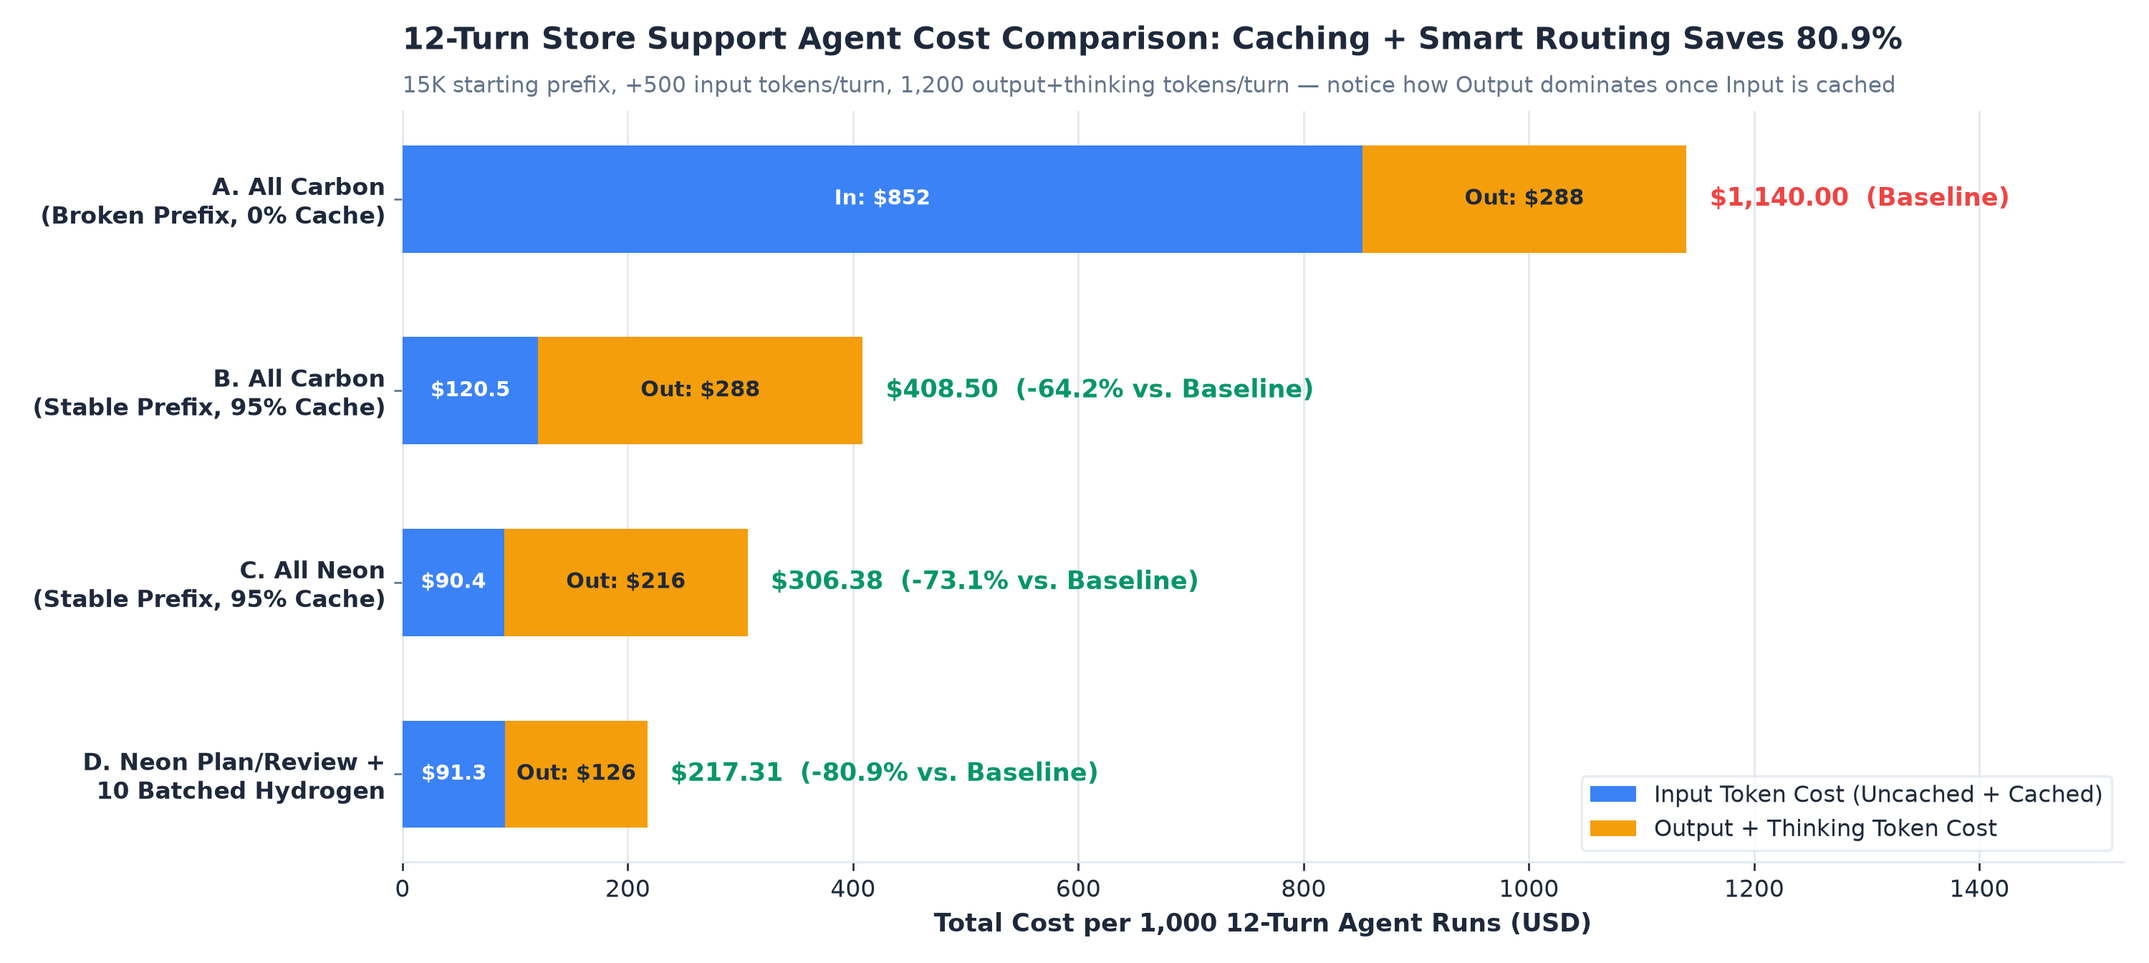
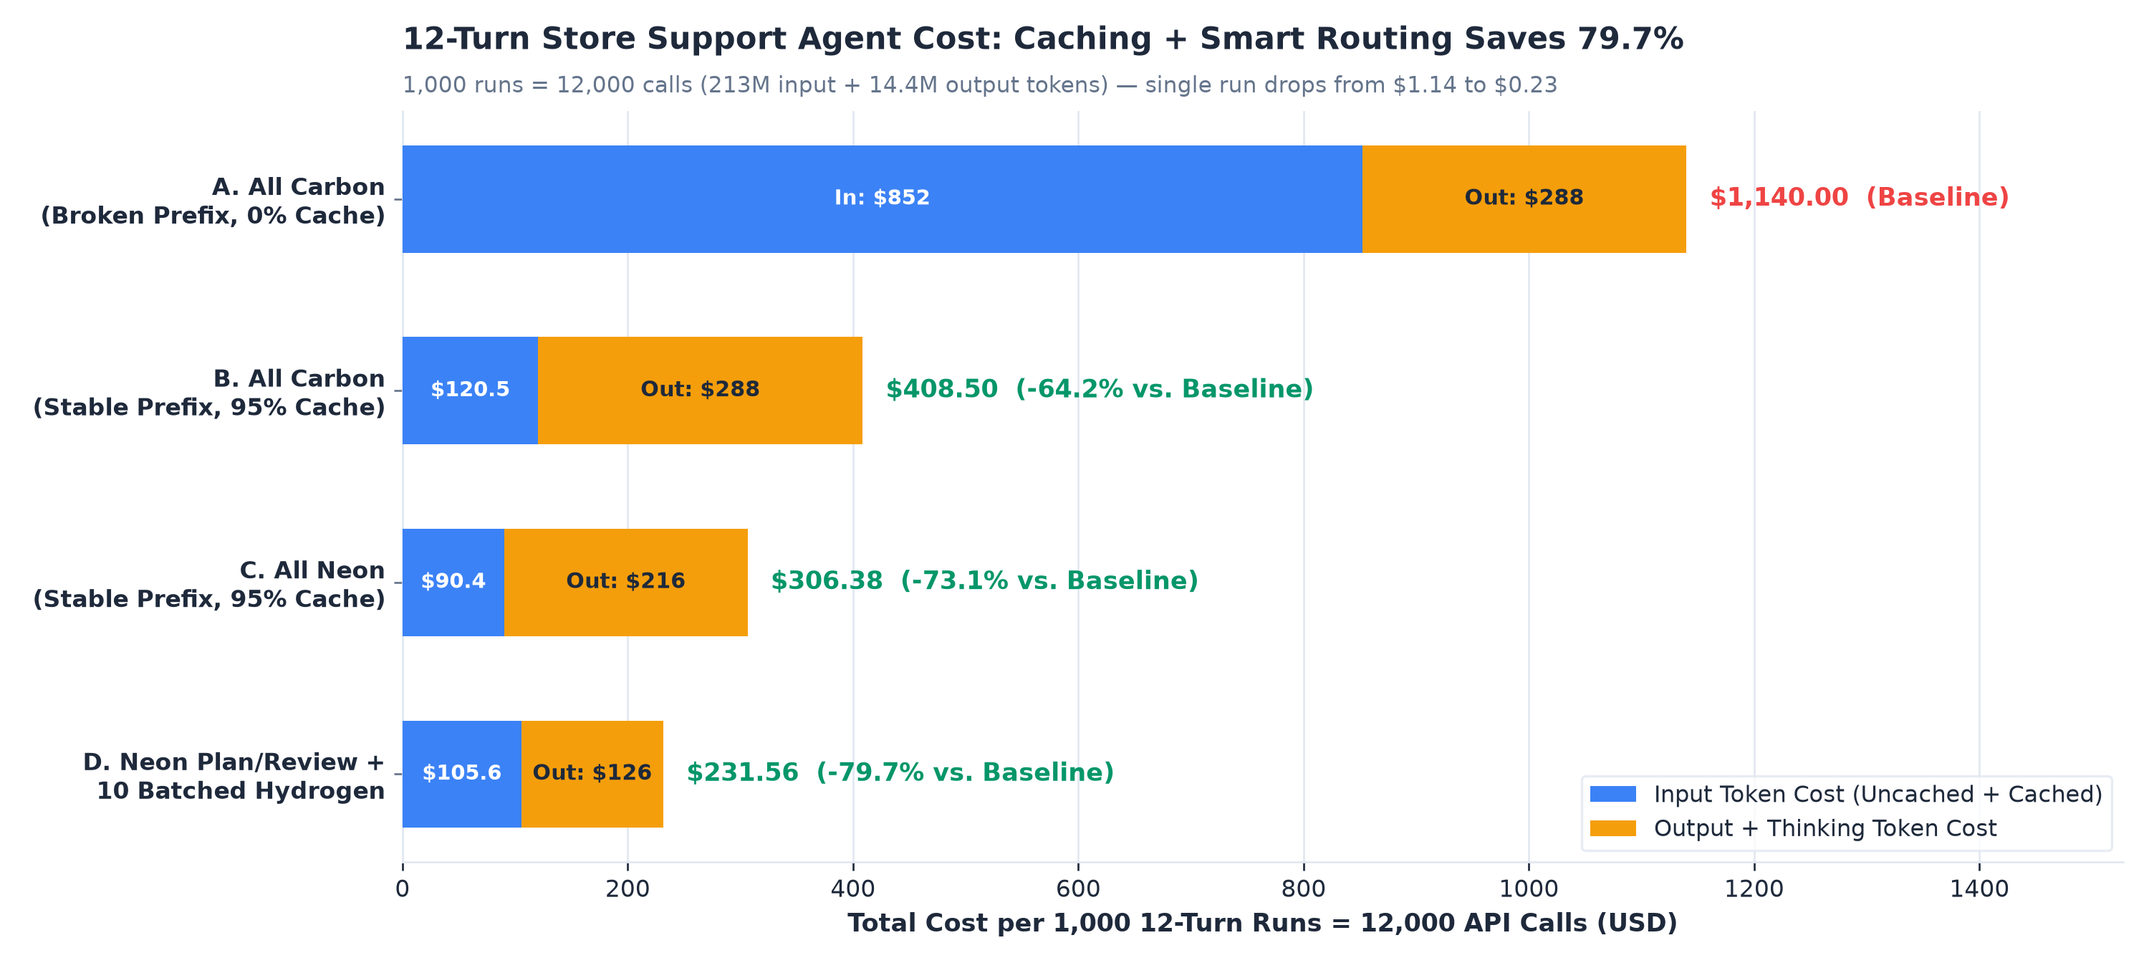
Fix Turn 12 per-model cache math in simulator and explain 1-run vs 12,000-call scale

Changed region(s): [[0.186, 0.0312, 0.899, 0.0938], [0.186, 0.75, 0.527, 0.875], [0.403, 0.9375, 0.775, 0.9688]]

diff --git a/examples/04_12_turn_cost_simulator.py b/examples/04_12_turn_cost_simulator.py
@@ -5,10 +5,12 @@ Models a realistic 12-turn SunnyMart order-support agent loop:
   - Turns 2-11: 10 worker turns (check SKUs, compare warranties, verify shipping)
   - Turn 12: Final quality review
   - Starting input catalog prefix: 15,000 tokens
-  - Context growth per turn: +500 input tokens
-  - Thinking + output per turn: 1,200 tokens
+  - Context growth per turn: +500 input tokens (213,000 input tokens across 12 turns)
+  - Thinking + output per turn: 1,200 tokens (14,400 output tokens across 12 turns)
 
-Compares four deployment setups across 1,000 agent runs (no live API calls).
+Tracks each model's own cached prefix length independently (per-model KV cache
+isolation) and prints both single-run cost (12 calls) and 1,000-run cost
+(12,000 total API calls). Runs locally with zero API calls.
 """
 
 from __future__ import annotations
@@ -33,21 +35,23 @@ def simulate_12_turn_cost(
     turn_growth: int = 500,
     out_per_turn: int = 1_200,
 ) -> dict:
-    """Simulate token counts and total cost per 1,000 12-turn agent runs."""
-    seen_models: set[str] = set()
+    """Simulate token counts and exact cost per 1 run (12 calls) and per 1,000 runs."""
+    # Track the prefix length each individual model has previously cached
+    cached_prefix_by_model: dict[str, int] = {}
     total_input_per_1k = 0.0
     total_output_per_1k = 0.0
     turns: list[dict] = []
 
     for idx, (model_id, stable_prefix) in enumerate(schedule):
         in_tok = base_in + idx * turn_growth
+        # A model can only reuse tokens IT has previously seen in its own KV cache
         cached_tok = (
-            (base_in + max(0, idx - 1) * turn_growth)
-            if (stable_prefix and model_id in seen_models)
+            cached_prefix_by_model.get(model_id, 0)
+            if stable_prefix
             else 0
         )
         if stable_prefix:
-            seen_models.add(model_id)
+            cached_prefix_by_model[model_id] = in_tok
 
         cost = calculate_cost(model_id, in_tok, cached_tok, out_per_turn)
         in_cost_1k = cost["input_cost_per_1k_usd"]
@@ -81,7 +85,9 @@ def simulate_12_turn_cost(
 
 
 def main() -> None:
-    print("=== Experiment 4: 12-Turn Store Support Agent Cost Comparison ===\n")
+    print("=== Experiment 4: 12-Turn Store Support Agent Cost Comparison ===")
+    print("Scale: 1 run = 12 API calls (213K input + 14.4K output tokens)")
+    print("       1,000 runs = 12,000 API calls (213M input + 14.4M output tokens)\n")
 
     schedules = {
         "A. All Carbon (broken prefix, 0% cache)": [(CARBON_MODEL, False)] * 12,
@@ -106,9 +112,9 @@ def main() -> None:
         summary[label] = sim
 
         print(
-            f"{label:<43} -> ${sim['total_per_1k_runs_usd']:>7.2f} / 1,000 runs "
-            f"(${sim['single_run_cost_usd']:.4f}/run | "
-            f"in=${sim['input_cost_per_1k_runs_usd']:>6.2f}, "
+            f"{label:<43} -> ${sim['single_run_cost_usd']:.4f}/run | "
+            f"${sim['total_per_1k_runs_usd']:>7.2f} / 1,000 runs "
+            f"(in=${sim['input_cost_per_1k_runs_usd']:>6.2f}, "
             f"out=${sim['output_cost_per_1k_runs_usd']:>6.2f} | "
             f"saves {savings_pct:4.1f}%)"
         )

diff --git a/scripts/generate_charts.py b/scripts/generate_charts.py
@@ -267,12 +267,12 @@ def plot_12_turn_tco(data: dict) -> None:
 
     ax.set_yticks(y)
     ax.set_yticklabels(short_labels, fontsize=10, fontweight="bold", color=SLATE)
-    ax.set_xlabel("Total Cost per 1,000 12-Turn Agent Runs (USD)", fontsize=10.5, fontweight="bold")
+    ax.set_xlabel("Total Cost per 1,000 12-Turn Runs = 12,000 API Calls (USD)", fontsize=10.5, fontweight="bold")
     ax.set_xlim(0, max_total * 1.34)
     ax.xaxis.grid(True, color=GRID, linestyle="-", linewidth=0.8, zorder=0)
 
     ax.set_title(
-        "12-Turn Store Support Agent Cost Comparison: Caching + Smart Routing Saves 80.9%",
+        "12-Turn Store Support Agent Cost: Caching + Smart Routing Saves 79.7%",
         fontsize=12.8,
         fontweight="bold",
         pad=26,
@@ -282,7 +282,7 @@ def plot_12_turn_tco(data: dict) -> None:
     ax.text(
         0.0,
         1.025,
-        "15K starting prefix, +500 input tokens/turn, 1,200 output+thinking tokens/turn — notice how Output dominates once Input is cached",
+        r"1,000 runs = 12,000 calls (213M input + 14.4M output tokens) — single run drops from \$1.14 to \$0.23",
         transform=ax.transAxes,
         fontsize=9.2,
         color=MUTED,

diff --git a/blog_post.md b/blog_post.md
@@ -50,7 +50,7 @@ Let's unpack how all of this works from the ground up — and then test every si
    - **Experiment 1:** Why you should *not* create caches manually on Gemini 4 (`HTTP 400`).
    - **Experiment 2:** How one changing timestamp at the top breaks caching — and how moving it to the end cuts input cost by **81.6%**.
    - **Experiment 3:** Why Carbon, Neon, and Hydrogen do **not** share each other's memory (and how each model remembers you when you come back).
-   - **Experiment 4:** A full 12-turn store support agent bill (**$1,140.00 down to $217.31** per 1,000 runs).
+   - **Experiment 4:** A full 12-turn store support agent bill (**$1.14 down to $0.23 per run**, or **$1,140.00 down to $231.56** per 1,000 runs / 12,000 calls).
    - **Experiment 5:** Letting Google manage conversation history with the **Interactions API** while keeping cache hits above **83%–85%**.
 4. **A 5-Rule Cheat Sheet & Official Reference Links** you can bookmark and verify yourself.
 
@@ -516,60 +516,77 @@ Here are both live experiments plotted side by side directly from our real Googl
 
 ## Experiment 4: How Much Does a Real 12-Turn Support Agent Cost? ([04_12_turn_cost_simulator.py](https://github.com/rominirani/gemini-4-prompt-caching/blob/main/examples/04_12_turn_cost_simulator.py))
 
-Now let's zoom out to a realistic production **12-turn SunnyMart order-troubleshooting agent**:
+Now let's zoom out from a single 1-sentence question to a realistic production **12-turn SunnyMart order-troubleshooting agent**:
 - **Turn 1:** Plan how to resolve a complex multi-item order issue
 - **Turns 2–11:** 10 worker turns (look up SKUs, compare warranties, calculate refunds, check shipping rules)
 - **Turn 12:** Final quality review before replying to the customer
 
-Let's trace the exact token growth of a single 12-turn run:
-- Turn 1 sends **15,000 input tokens** (the store catalog) and writes **1,200 tokens** (thinking + answer).
-- Turn 2 sends **15,500 input tokens** (catalog + 500 new tokens of context) and writes **1,200 tokens**.
-- Each turn grows by **+500 input tokens**, reaching **20,500 input tokens** by Turn 12.
+Let's count the exact tokens in **1 single 12-turn run**:
+- **Input (Reading):** Turn 1 sends **15,000 tokens** (the store catalog). Each turn adds **+500 tokens** of conversation history (`15,000 + 15,500 + 16,000 + ... + 20,500`), totaling **213,000 input tokens across all 12 calls**.
+- **Output + Thinking (Writing):** Unlike Experiments 2 and 3 (which only wrote ~25-token 1-sentence answers), a real multi-step support agent thinks and writes **1,200 tokens per turn** × 12 turns = **14,400 output tokens per run**.
 
-Our local Python script (`examples/04_12_turn_cost_simulator.py`, zero API cost to run!) calculates the exact bill for **1,000 full 12-turn runs** across four setups using the official [Gemini API Pricing](https://aistudio.google.com/docs/pricing):
+### Wait — Let's Verify Setup A's Cost on a Calculator First!
+
+Before looking at 1,000 runs, let's calculate **1 single uncached 12-turn run on Gemini 4 Carbon** (`$4.00 / 1M` input, `$20.00 / 1M` output):
+
+- **Reading cost (1 run):** `213,000 tokens × ($4.00 / 1,000,000)` = **`$0.852`** (85.2 cents)
+- **Writing cost (1 run):** `14,400 tokens × ($20.00 / 1,000,000)` = **`$0.288`** (28.8 cents)
+- **Total for 1 single 12-turn run:** `$0.852 + $0.288` = **`$1.14`** (~9.5 cents per turn)
+
+Now scale that up to **1,000 customer support sessions** — which is **12,000 individual API calls** (**213 million** input tokens + **14.4 million** output tokens!):
+
+- `$1.14 × 1,000 runs` = **`$1,140.00`** (`$852.00` reading + `$288.00` writing)
+
+That is why the 1,000-run number looks so much bigger than Experiment 2's `$4.13`: Experiment 2 measured 1,000 single calls on Hydrogen with tiny 28-token answers, whereas Experiment 4 measures **12,000 calls** (12 turns × 1,000 runs) with **1,200-token thinking + output replies** starting on Carbon!
+
+Our local Python simulator ([`examples/04_12_turn_cost_simulator.py`](https://github.com/rominirani/gemini-4-prompt-caching/blob/main/examples/04_12_turn_cost_simulator.py), zero API cost to run!) tracks each model's own cached prefix independently and compares four setups using the official [Gemini API Pricing](https://aistudio.google.com/docs/pricing):
 
 ### Real Output
 
 ```text
 === Experiment 4: 12-Turn Store Support Agent Cost Comparison ===
+Scale: 1 run = 12 API calls (213K input + 14.4K output tokens)
+       1,000 runs = 12,000 API calls (213M input + 14.4M output tokens)
 
-A. All Carbon (broken prefix, 0% cache)     -> $1140.00 / 1,000 runs ($1.1400/run | in=$852.00, out=$288.00 | saves  0.0%)
-B. All Carbon (stable prefix, 95% cache)    -> $ 408.50 / 1,000 runs ($0.4085/run | in=$120.50, out=$288.00 | saves 64.2%)
-C. All Neon (stable prefix, 95% cache)      -> $ 306.38 / 1,000 runs ($0.3064/run | in=$ 90.38, out=$216.00 | saves 73.1%)
-D. Neon plan/review + 10 batched Hydrogen   -> $ 217.31 / 1,000 runs ($0.2173/run | in=$ 91.31, out=$126.00 | saves 80.9%)
+A. All Carbon (broken prefix, 0% cache)     -> $1.1400/run | $1140.00 / 1,000 runs (in=$852.00, out=$288.00 | saves  0.0%)
+B. All Carbon (stable prefix, 95% cache)    -> $0.4085/run | $ 408.50 / 1,000 runs (in=$120.50, out=$288.00 | saves 64.2%)
+C. All Neon (stable prefix, 95% cache)      -> $0.3064/run | $ 306.38 / 1,000 runs (in=$ 90.38, out=$216.00 | saves 73.1%)
+D. Neon plan/review + 10 batched Hydrogen   -> $0.2316/run | $ 231.56 / 1,000 runs (in=$105.56, out=$126.00 | saves 79.7%)
 ```
+
+*(Note: This simulator models upper-bound prefix caching where each consecutive turn on the same model reuses all tokens that model has previously seen — which matches turns adding 2,050+ tokens of tool/model context. For tiny turns below 2,050 new tokens, expect the ~2,050-token trailing window from Part 2 to add a few cents per turn.)*
 
 Look closely at the **blue (reading/input)** vs. **orange (writing/output + thinking)** bars in Figure 5 — this reveals a huge lightbulb moment:
 
 ![12-Turn Store Support Agent Cost Comparison](images/05_chart_12_turn_tco.png)
-*Figure 5: Prompt caching alone cuts total cost from $1,140 to $408.50 (-64.2%). Notice the orange bar: once reading is cheap, writing (Output + Thinking) becomes 70% of your bill! Batching the 10 worker turns on Hydrogen drops the total all the way to $217.31 (-80.9%).*
+*Figure 5: Prompt caching alone cuts 1,000 12-turn runs (12,000 API calls) from $1,140 to $408.50 (-64.2%). Notice the orange bar: once reading is cheap, writing (Output + Thinking) becomes 70% of your bill! Batching the 10 worker turns on Hydrogen drops the total all the way to $231.56 (-79.7%, or $0.23 per 12-turn run).*
 
 Let's follow the story from top bar to bottom bar:
 
-1. **Setup A → Setup B (`$1,140.00` → `$408.50`, saves `$731.50` / 64.2%):**
+1. **Setup A → Setup B (`$1.14` → `$0.41` per run | `$1,140.00` → `$408.50` per 1,000 runs, saves 64.2%):**
    We didn't change the model at all — we ONLY fixed our prompt prefix so it stayed identical from Token 0! That single change slashed the reading bill (blue) from **$852.00 down to $120.50**.
 2. **The Big Surprise — Look at the Orange Bar!**
    In Setup B, reading is now only **$120.50**, while writing (Output + Thinking on Carbon at `$20.00/1M`) is **$288.00** — **70% of the entire invoice!** Why? Because prompt caching only discounts what the model *reads* (input), never what it *writes* (output + thinking).
-3. **Setup B → Setup D (`$408.50` → `$217.31`, saves 80.9% total!):**
+3. **Setup B → Setup D (`$0.41` → `$0.23` per run | `$408.50` → `$231.56` per 1,000 runs, saves 79.7% total!):**
    Now look what happens when you combine **prompt caching** with **smart model batching**:
    - **Turn 1:** Use **Neon** to make a smart plan.
    - **Turns 2–11:** Batch all **10 worker turns consecutively on Hydrogen** (which charges `$7.50/1M` to write instead of Carbon's `$20.00/1M`!).
-   - **Turn 12:** Hand back to **Neon** (whose cache is still warm!) for the final review.
-   - Result: Writing costs drop from **$288.00 down to $126.00**, and your total bill drops from **$1.14 per agent run down to $0.22 per agent run!**
+   - **Turn 12:** Hand back to **Neon** for the final review. Because caches are per-model, Neon reuses the **15,000 tokens it cached on Turn 1** and only pays normal price for the **5,500 new tokens** added while Hydrogen was working!
+   - Result: Writing costs drop from **$288.00 down to $126.00**, and your total bill drops from **$1.14 per 12-turn run down to just $0.23 per 12-turn run** (less than **2 cents per turn!**).
 
-Here is the exact turn-by-turn receipt for **Setup D** (per 1,000 runs):
+Here is the exact turn-by-turn receipt for **Setup D** (showing both **1 run** and **1,000 runs = 12,000 calls**):
 
-| Turn | Step & Model | Total Input | Cached (95% Off) | Uncached | Reading Cost ($/1K) | Writing Cost ($/1K) | Turn Total ($/1K) |
+| Turn | Step & Model | Total Input | Cached (95% Off) | Uncached | Reading ($/1K runs) | Writing ($/1K runs) | Turn Total ($/1K runs) |
 | :---: | :--- | ---: | ---: | ---: | ---: | ---: | ---: |
 | 1 | Plan (`gemini-4-neon`) | 15,000 | 0 *(cold)* | 15,000 | $45.00 | $18.00 | **$63.00** |
 | 2 | Worker 1 (`gemini-4-hydrogen`) | 15,500 | 0 *(cold)* | 15,500 | $23.25 | $9.00 | **$32.25** |
 | 3 | Worker 2 (`gemini-4-hydrogen`) | 16,000 | 15,500 | 500 | $1.91 | $9.00 | **$10.91** |
 | 4–10 | Workers 3–9 (`gemini-4-hydrogen`) | 16.5K–19.5K | 16K–19K | 500 | $1.95–$2.18 | $9.00 | **$10.95–$11.18** |
 | 11 | Worker 10 (`gemini-4-hydrogen`) | 20,000 | 19,500 | 500 | $2.21 | $9.00 | **$11.21** |
-| 12 | Review (`gemini-4-neon`) | 20,500 | 20,000 *(warm!)* | 500 | $4.50 | $18.00 | **$22.50** |
-| **Total** | **All 12 Turns** | **213,000** | **182,500** | **30,500** | **$91.31** | **$126.00** | **$217.31** |
+| 12 | Review (`gemini-4-neon`) | 20,500 | 15,000 *(from Turn 1!)* | 5,500 | $18.75 | $18.00 | **$36.75** |
+| **Total** | **All 12 Turns (× 1,000 runs)** | **213,000** | **177,500** | **35,500** | **$105.56** | **$126.00** | **$231.56** *(**$0.23/run**)* |
 
-Look at Turns 2–11: Turn 2 pays a one-time **$23.25** fee to warm up Hydrogen's notebook, and then **Turns 3 through 11 cruise at ~$2.00 per 1,000 calls for reading!** That is why batching worker turns together on one model beats switching models every single turn.
+Look at Turns 2–11: Turn 2 pays a one-time **$23.25** (`2.3 cents/run`) fee to warm up Hydrogen's notebook, and then **Turns 3 through 11 cruise at ~$2.00 per 1,000 runs (`0.2 cents/turn`) for reading!** That is why batching worker turns together on one model beats switching models every single turn.
 
 ---
 

diff --git a/social_posts.md b/social_posts.md
@@ -6,7 +6,7 @@
 2. **One Timestamp Just Cost You 81% of Your LLM Bill: A Plain-English Guide to Gemini 4 Prompt Caching** *(High CTR curiosity hook)*
 3. **How Prompt Caching Actually Works (Step-by-Step Store Catalog Example, Illustrations & Exact Token Math)** *(Strong beginner search intent)*
 4. **Stop Re-Reading Your System Prompt: Per-Model Prompt Caching Across Gemini 4 Carbon, Neon, and Hydrogen** *(Architecture & agent builders)*
-5. **From $1,140 to $217 per 1,000 Agent Runs: Prompt Caching + Multi-Model Batching in Gemini 4** *(Data-driven FinOps / engineering hook)*
+5. **From $1,140 to $231 per 1,000 Agent Runs: Prompt Caching + Multi-Model Batching in Gemini 4** *(Data-driven FinOps / engineering hook)*
 
 ---
 
@@ -23,7 +23,7 @@ Here are 4 eye-opening findings from running the experiments live:
 1. **No boilerplate required:** Gemini 4 uses automatic *Implicit Context Caching* exclusively (95% discount on cached input tokens once a shared prefix reaches 4,096 tokens). Old explicit `caches.create()` calls now return `HTTP 400`.
 2. **Prefixes match strictly from Token 0:** Moving a changing turn timestamp from the start of `system_instruction` to the end of the user prompt took Gemini 4 Hydrogen from **0% cached ($22.43 / 1K calls)** to **85.9% cached ($4.13 / 1K calls)** — an **81.6% input cost drop** and **nearly 2× faster response** (`3.39s → 1.72s`).
 3. **Caches are NOT shared across models:** Carbon, Neon, and Hydrogen each keep their own private memory. Switching models pays a one-time cold start, while the original model's cache stays warm when you switch back (Neon hit **85.4% cached**, and Carbon hit **84.7% cached**, cutting Carbon's latency from `7.76s` down to `4.52s`!).
-4. **Once input is cached, Output + Thinking dominates your bill:** In a 12-turn store support agent loop, fixing prefix caching alone cut 1,000 runs from **$1,140.00 to $408.50 (-64.2%)**. Batching the 10 worker turns on Hydrogen while planning/reviewing on Neon cut it further to **$217.31 (-80.9%)**!
+4. **Once input is cached, Output + Thinking dominates your bill:** In a 12-turn store support agent loop (1,000 runs = 12,000 API calls), fixing prefix caching alone cut total cost from **$1,140.00 to $408.50 (-64.2%)**. Batching the 10 worker turns on Hydrogen while planning/reviewing on Neon cut it further to **$231.56 (-79.7%, or $0.23 per 12-turn run)**!
 
 Bonus detail explained simply in the post: why your live cache hit sits at ~85% instead of 99.9% on short chats (Gemini 4's documented 2,050-token trailing window!).
 
@@ -76,12 +76,12 @@ Live 6-step run (`Carbon → Neon → Hydrogen → Hydrogen → Neon → Carbon`
 *(Attach: `images/03_per_model_kv_isolation.png`)*
 
 **5/6**
-The biggest surprise on a 12-turn store support agent (per 1,000 runs):
+The biggest surprise on a 12-turn store support agent (per 1,000 runs = 12,000 calls):
 
-- All Carbon (broken prefix): **$1,140.00**
+- All Carbon (broken prefix): **$1,140.00** ($1.14/run)
 - All Carbon (cached): **$408.50** (-64.2%)
 - All Neon (cached): **$306.38** (-73.1%)
-- Neon Plan/Review + 10 batched Hydrogen workers: **$217.31** (**-80.9%!**)
+- Neon Plan/Review + 10 batched Hydrogen workers: **$231.56** (**-79.7% — $0.23/run!**)
 
 Once input is cached, Output + Thinking becomes 70% of your bill — so batching worker turns on Hydrogen is huge.
 

diff --git a/README.md b/README.md
@@ -11,7 +11,7 @@ Inspired by Google Cloud's official notebook ([gemini_4_per_model_prompt_caching
 - **What Prompt Caching (KV Caching) is** in plain English, and how Gemini 4 delivers an automatic **95% discount** on cached input tokens once a shared prefix hits **4,096 tokens** ([Context Caching Docs](https://aistudio.google.com/docs/caching)).
 - **Why one timestamp at Token 0 kills your cache** — and how reordering your prompt cuts live Hydrogen input costs by **81.6%** (`$22.43` → `$4.13` per 1,000 calls) and drops latency from `3.39s` to `1.72s`.
 - **Why KV caches are isolated per model** across Carbon, Neon, and Hydrogen — and how each model's cache stays warm when you switch back.
-- **Why Output + Thinking dominates after caching** — dropping a 12-turn store support agent from **`$1,140.00` down to `$217.31` per 1,000 runs (-80.9%)** using a *Neon Plan → Batched Hydrogen Workers → Neon Review* pattern.
+- **Why Output + Thinking dominates after caching** — dropping a 12-turn store support agent from **`$1.14` down to `$0.23` per run** (**`$1,140.00` → `$231.56`** per 1,000 runs / 12,000 API calls, **-79.7%**) using a *Neon Plan → Batched Hydrogen Workers → Neon Review* pattern.
 - **How to use implicit caching with the stateful [Interactions API](https://aistudio.google.com/docs/interactions-overview)** (`previous_interaction_id`).
 
 ---
@@ -109,7 +109,7 @@ python3 -m venv .venv
 | **1. Explicit Cache Check** | `client.caches.create()` on `gemini-4-neon` returns `HTTP 400` — implicit caching only. |
 | **2. Prefix Ordering (`Hydrogen`)** | Dynamic header at Token 0: `0%` cached (`$22.37`–`$22.45/1K`). Static-first Turn 2: **`85.9%` cached (`12,846 / 14,955`)**, input drops to **`$4.13/1K` (-81.6%)**, latency drops `3.39s → 1.72s`. |
 | **3. Per-Model Isolation** | Cold starts on Carbon (`$59.58/1K`), Neon (`$44.85/1K`), Hydrogen (`$22.50/1K`). Warm hits: Hydrogen **`52.0%` (`$11.96/1K`)**, Neon **`85.4%` (`$8.56/1K`)**, Carbon **`84.7%` (`$11.85/1K`, latency `7.76s → 4.52s`)**. |
-| **4. 12-Turn Agent Costs** | All Carbon broken prefix (`$1,140.00/1K runs`) → All Carbon cached (`$408.50`, `-64.2%`) → All Neon cached (`$306.38`, `-73.1%`) → Neon Plan/Review + 10 Hydrogen Workers (**`$217.31`**, **`-80.9%`**). |
+| **4. 12-Turn Agent Costs** | All Carbon broken prefix (`$1.14/run` / `$1,140.00` per 1K runs) → All Carbon cached (`$408.50`, `-64.2%`) → All Neon cached (`$306.38`, `-73.1%`) → Neon Plan/Review + 10 Hydrogen Workers (**`$0.23/run`** / **`$231.56`**, **`-79.7%`**). |
 | **5. Interactions API Handoffs** | `Neon → 3× Hydrogen → Neon` via `previous_interaction_id`: Hydrogen workers hit **`85.6%`** & **`85.8%`** (`$4.24`–`$4.21/1K`); Neon verify hit **`83.4%`** (`$9.61/1K`). |
 
 ## Official Documentation References
